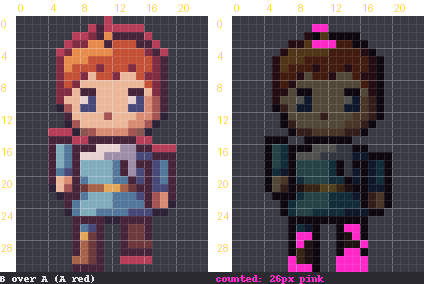
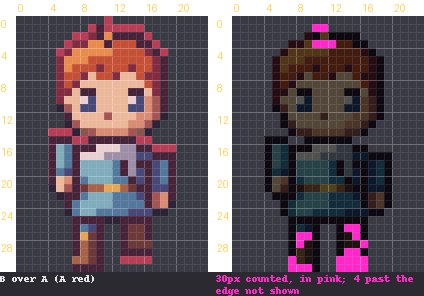
PX-70 loop fixes: labels say how A is drawn (red, tinted, faded), give the readout's count and those past the edge, wrap to their panel, and go only from --scale 4
Claude-Session: https://claude.ai/code/session_01NCUzqAK2T6YVpxmCLMVBNE

diff --git a/pxart.py b/pxart.py
@@ -4008,7 +4008,9 @@ def cmd_onion(a):
                                feet=a.feet is not None)
     pic = upscale(base, a.scale, grid=True, rulers=True)
     if counted:  # a second panel: the pixels the readout counts, pink, as anim's strip marks them (PX-70)
-        pic = onion_panels(pic, counted_panel(A, B, w, h, spots, *counted), a.scale, sum(counted[3]))
+        how = "A faded" if a.fade_a else "A tinted" if a.tint_a else "A red"
+        pic = onion_panels(pic, counted_panel(A, B, w, h, spots, *counted[:4]), a.scale, sum(counted[3]), counted[4],
+                           how)
     save_image(pic, a.o, "-o" if a.o else "the onion (no -o)",
                about=f"A and B on one {w}x{h} canvas at --scale {a.scale}, with the grid and rulers"
                + (", and the counted pixels beside it" if counted else ""),
@@ -4052,19 +4054,27 @@ def counted_mask(prev, cur, dx, dy, rows=None):
     return flat
 
 
-def onion_panels(left, right, scale, n):
+def onion_panels(left, right, scale, shown, total, how):
     """onion -o's picture: the onion, and to its right the counted pixels at the same scale, grid and rulers, each
-    under a one-line label."""
+    over its label (from --scale 4, as the rulers), wrapped to its panel's width: 'B over A (A red)' and '17px counted, in pink' (with ', 6 past
+    the edge not shown' when the shift pushed some off the canvas, so the picture's pink and the readout agree)."""
     right = upscale(right, scale, grid=True, rulers=True)
     gap, font = 8, strip_font()
+    d = ImageDraw.Draw(Image.new("RGBA", (1, 1)))
+    texts = [f"B over A ({how})", f"{total}px counted, in pink"
+             + (f"; {total - shown} past the edge not shown" if total > shown else "")]
+    lines = [fit_lines(d, t, im.width, font) if scale >= 4 else [] for t, im in zip(texts, (left, right))]
+    # below --scale 4, as with the grid and rulers: no labels (a 4px-wide panel can't hold a word)
     top = max(left.height, right.height)
-    out = Image.new("RGBA", (left.width + gap + right.width, top + LINE_H), CLEAR)
-    ImageDraw.Draw(out).rectangle([0, top, out.width - 1, out.height - 1], fill=(42, 42, 48, 255))
+    out = Image.new("RGBA", (left.width + gap + right.width, top + LINE_H * max(map(len, lines))), CLEAR)
+    if out.height > top:
+        ImageDraw.Draw(out).rectangle([0, top, out.width - 1, out.height - 1], fill=(42, 42, 48, 255))
     out.alpha_composite(left, (0, 0))  # the onion stays where it always was: the labels go under both
     out.alpha_composite(right, (left.width + gap, 0))
     d = ImageDraw.Draw(out)
-    d.text((0, top + 1), "B over A (A red)", fill=(230, 230, 230, 255), font=font)
-    d.text((left.width + gap, top + 1), f"counted: {n}px pink", fill=(255, 40, 200, 255), font=font)
+    for x, ls, color in ((0, lines[0], (230, 230, 230, 255)), (left.width + gap, lines[1], (255, 40, 200, 255))):
+        for i, line in enumerate(ls):
+            d.text((x, top + 1 + i * LINE_H), line, fill=color, font=font)
     return out
 
 
@@ -4176,7 +4186,7 @@ def alignment(ia, ib, w, h, spots, how, band=None, kin=True, feet=False):
         elif band and b1 == b0 and dy:
             lines.append(f"{edges}; bottom edges agree, so no shift: {n_none}px changed (the band's best shift "
                          f"{dx:+d},{dy:+d} then {n_shift}px only lines up what moved above its bottom edge)")
-            counted = (0, 0, list(range(band[0], band[1] + 1)))
+            counted, total = (0, 0, list(range(band[0], band[1] + 1))), n_none
         else:
             past = past_edge(*clear, dx, dy, n_shift) if not band else band_past
             lines.append(f"{edges}; best shift {dx:+d},{dy:+d} then {n_shift}px changed"
@@ -4184,8 +4194,9 @@ def alignment(ia, ib, w, h, spots, how, band=None, kin=True, feet=False):
             # band_count's rows: B's band, and the rows A's band moved to
             counted = (dx, dy, sorted({y for y in range(band[0], band[1] + 1)} | {y + dy for y in range(band[0], band[1] + 1)
                                                                                  if 0 <= y + dy < h}) if band else None)
+            total = n_shift
     if counted:
-        counted += (counted_mask(*clear, *counted),)
+        counted += (counted_mask(*clear, *counted), total)
     return lines, counted
 
 

diff --git a/tests/test_pxart.py b/tests/test_pxart.py
@@ -8818,14 +8818,14 @@ def test_onion_aligns_by_pivot(tmp_path):
     assert run("onion", f"{p}:a/0", f"{p}:a/1", "-o", tmp_path / "o.png", "--scale", "1") == 0
     img = Image.open(tmp_path / "o.png").convert("RGBA")
     # a/1's pivot 1,0 meets a/0's 0,0: a/1 starts 1px left, so the canvas is 4 wide (twice: the onion, then the
-    # counted pixels beside it, 8px apart, over their labels; PX-70)
-    assert img.size == (4 + 8 + 4, 4 + pxart.LINE_H)
+    # counted pixels beside it, 8px apart; labels only from --scale 4; PX-70)
+    assert img.size == (4 + 8 + 4, 4)
 
 
 def test_onion_without_pivots_is_unchanged(tmp_path):
     p = write(tmp_path, "m.px", MULTI)
     assert run("onion", f"{p}:walk/down/0", f"{p}:idle", "-o", tmp_path / "o.png", "--scale", "1") == 0
-    assert Image.open(tmp_path / "o.png").size == (4 + 8 + 4, 2 + pxart.LINE_H)  # a 4x2 canvas, twice (PX-70)
+    assert Image.open(tmp_path / "o.png").size == (4 + 8 + 4, 2)  # a 4x2 canvas, twice (PX-70)
 
 
 # GAMES-295: onion prints an alignment readout (a 1px jump is too faint to judge by eye).
@@ -8903,7 +8903,7 @@ def test_onion_readout_image_unchanged(tmp_path, capsys):
     p = write(tmp_path, "b.px", BOB)
     assert run("onion", f"{p}:w/0", f"{p}:w/1", "-o", tmp_path / "o.png", "--scale", "2") == 0
     img = Image.open(tmp_path / "o.png").convert("RGBA")
-    assert img.size == (2 * 3 * 2 + 8, 4 * 2 + pxart.LINE_H)  # below --scale 4: no grid, no rulers; the counted panel
+    assert img.size == (2 * 3 * 2 + 8, 4 * 2)  # below --scale 4: no grid, rulers or labels; the counted panel
     assert img.getpixel((2, 0))[3] == 255 and img.getpixel((0, 0)) == (58, 58, 68, 255)  # the onion is where it was
 
 
@@ -25939,7 +25939,7 @@ SIZE_LINE = re.compile(r"^[^ ].*: \d+x\d+ px(, |$)")  # a dry run's 'sheet.png: 
      "the GIF (no -o): 57x16 px, 2 frames of a 3x2 canvas at --scale 8, its 1x and 2x copies beside it, 200 ms a loop"),
     (["anim", "a.px:w", "--dry-run", "-o", "w.gif"], "w.strip.png: 72x190 px, 2 frames over what changed, at --scale 8"),
     (["onion", "a.px:w/0", "a.px:w/1", "--dry-run"],
-     "the onion (no -o): 88x44 px, A and B on one 3x2 canvas at --scale 8, with the grid and rulers, and the counted "
+     "the onion (no -o): 88x80 px, A and B on one 3x2 canvas at --scale 8, with the grid and rulers, and the counted "
      "pixels beside it"),
     (["scene", "a.px:w/0@0,0", "a.px:w/1@4,0", "--dry-run", "-o", "s.png"],
      "s.png: 384x256 px, a 96x64 scene at --scale 4, 2 items"),

diff --git a/tests/test_onion_counted.py b/tests/test_onion_counted.py
@@ -91,6 +91,27 @@ def test_the_examples_onion_marks_its_count(tmp_path, capsys):
     assert pink_cells(o, 8, 24, 32) == counted(out) == 11
 
 
+def test_the_label_gives_the_readouts_count_and_what_the_edge_hid(tmp_path, capsys):
+    # the PNG's own words: the readout's count, and how many of them no pixel can show
+    got = {}
+    real = pxart.onion_panels
+
+    def spy(left, right, scale, shown, total, how):
+        got.update(shown=shown, total=total, how=how)
+        return real(left, right, scale, shown, total, how)
+    p = tmp_path / "w.px"
+    p.write_text(WALKER.replace("@frame walk/1\n..kk..\n", "@frame walk/1\n......\n..kk..\n").replace(
+        ".k..k.\n.k....\n.k....\n", ".k..k.\n.k....\n"))
+    pxart.onion_panels = spy
+    try:
+        assert run("onion", f"{p}:walk/0", f"{p}:walk/1", "-o", tmp_path / "o.png", "--tint-a", "#40c0ff") == 0
+    finally:
+        pxart.onion_panels = real
+    out = capsys.readouterr().out
+    n = int(re.search(r"then (\d+)px changed", out).group(1))
+    assert got["total"] == n and got["shown"] == counted(out) and got["how"] == "A tinted"
+
+
 def test_two_different_sprites_get_no_counted_panel(tmp_path, capsys):
     a, b = tmp_path / "a.px", tmp_path / "b.px"
     a.write_text("k #000000\nkkkk\nkkkk\n")
